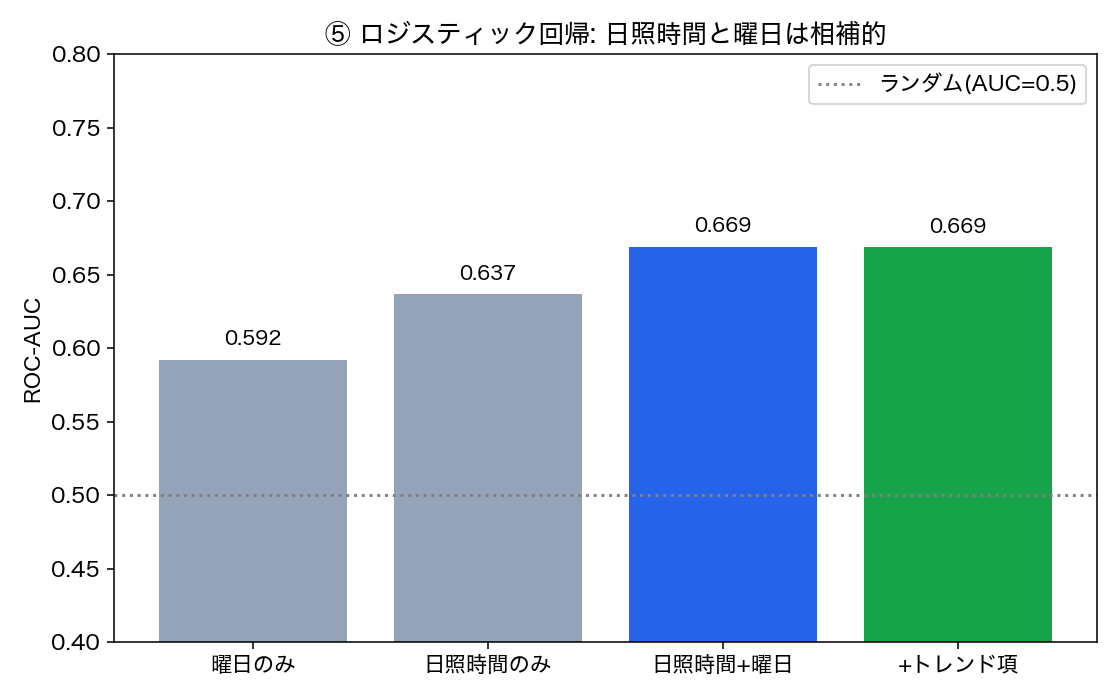
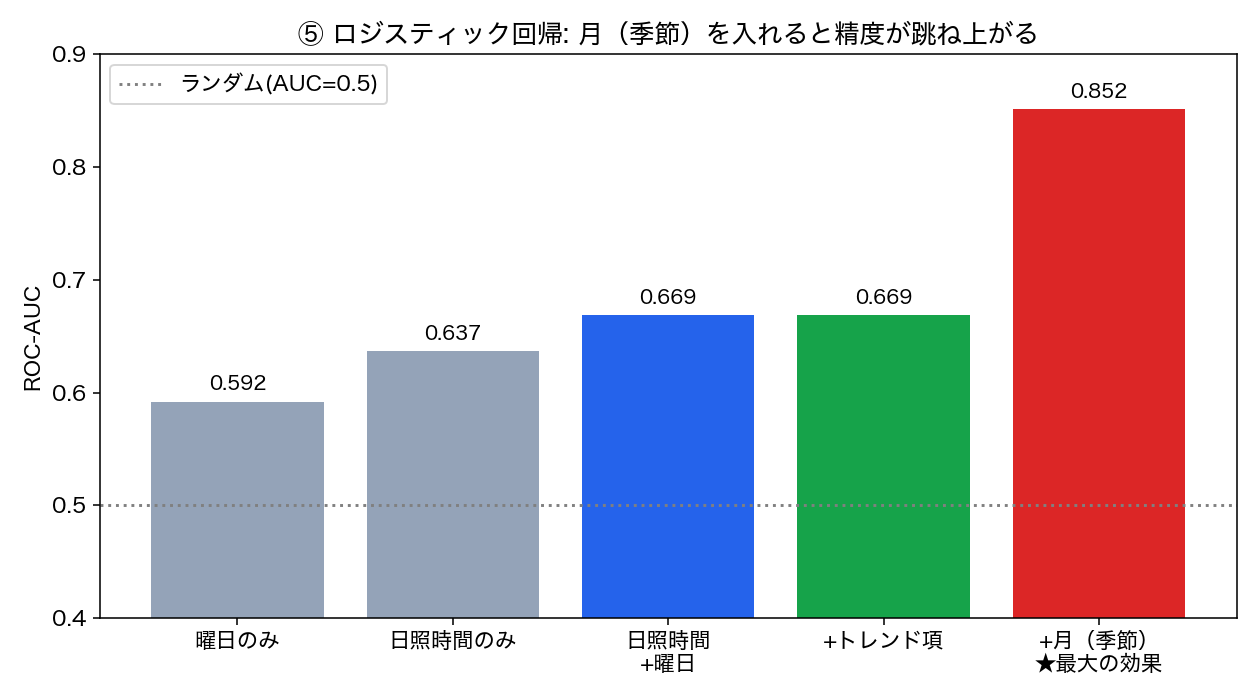
ID-01: 季節(月)を特徴量に加えるとAUCが0.669→0.852に大幅改善
fig03・fig05・まとめ表が季節変動の発見(前コミット)を反映していない
との指摘を受け、月ダミー変数をロジスティック回帰に実際に組み込んで
検証。月のみ+トレンドでAUC0.765(日照+曜日の0.669を単独で上回る)、
月+日照+曜日+トレンド(フル)でAUC0.852まで改善し、季節が日照時間・
曜日のどちらよりも強力な予測因子であることを確認。

logistic_model.pyに月ダミーの評価を追加、fig05を再生成、fig03の
文脈に季節混在の注記を追加、REPORT.md・README.md・まとめ表を更新。

diff --git a/experiments/id01_curtailment_compare/src/visualize_summary.py b/experiments/id01_curtailment_compare/src/visualize_summary.py
@@ -148,35 +148,43 @@ def fig04_discriminative_power():
 
 
 def fig05_auc_comparison():
+    from sklearn.linear_model import LogisticRegression
+    from sklearn.metrics import roc_auc_score
+
     df = build_dataset()
+    df["month"] = df["date"].dt.month
+    month_dummies = pd.get_dummies(df["month"], prefix="month", drop_first=True)
+    df = pd.concat([df, month_dummies], axis=1)
+    month_cols = list(month_dummies.columns)
+
+    n_train = int(len(df) * 0.7)
+    train, test = df.iloc[:n_train], df.iloc[n_train:]
+
     results = []
     for feats, label in [
         (["is_weekend_or_holiday"], "曜日のみ"),
         (["sunshine_h"], "日照時間のみ"),
-        (["sunshine_h", "is_weekend_or_holiday"], "日照時間+曜日"),
+        (["sunshine_h", "is_weekend_or_holiday"], "日照時間\n+曜日"),
         (["sunshine_h", "is_weekend_or_holiday", "years_since_start"], "+トレンド項"),
+        (month_cols + ["sunshine_h", "is_weekend_or_holiday", "years_since_start"], "+月（季節）\n★最大の効果"),
     ]:
-        from sklearn.linear_model import LogisticRegression
-        from sklearn.metrics import roc_auc_score
-        n_train = int(len(df) * 0.7)
-        train, test = df.iloc[:n_train], df.iloc[n_train:]
-        model = LogisticRegression()
+        model = LogisticRegression(max_iter=1000)
         model.fit(train[feats], train["is_curtailed"])
         proba = model.predict_proba(test[feats])[:, 1]
         auc = roc_auc_score(test["is_curtailed"], proba)
         results.append((label, auc))
 
-    fig, ax = plt.subplots(figsize=(8, 5))
+    fig, ax = plt.subplots(figsize=(9, 5))
     labels = [r[0] for r in results]
     aucs = [r[1] for r in results]
-    colors = ["#94a3b8", "#94a3b8", "#2563eb", "#16a34a"]
+    colors = ["#94a3b8", "#94a3b8", "#2563eb", "#16a34a", "#dc2626"]
     bars = ax.bar(labels, aucs, color=colors)
     for b, v in zip(bars, aucs):
         ax.text(b.get_x() + b.get_width() / 2, v + 0.01, f"{v:.3f}", ha="center", fontsize=10)
     ax.axhline(0.5, color="gray", ls=":", lw=1.5, label="ランダム(AUC=0.5)")
     ax.set_ylabel("ROC-AUC")
-    ax.set_ylim(0.4, 0.8)
-    ax.set_title("⑤ ロジスティック回帰: 日照時間と曜日は相補的")
+    ax.set_ylim(0.4, 0.9)
+    ax.set_title("⑤ ロジスティック回帰: 月（季節）を入れると精度が跳ね上がる")
     ax.legend()
     fig.tight_layout()
     fig.savefig(FIG_DIR / "05_auc_comparison.png", dpi=140)

diff --git a/experiments/id01_curtailment_compare/src/logistic_model.py b/experiments/id01_curtailment_compare/src/logistic_model.py
@@ -43,7 +43,7 @@ def evaluate(df: pd.DataFrame, features: list, label: str) -> dict:
     n_train = int(len(df) * TRAIN_RATIO)
     train, test = df.iloc[:n_train], df.iloc[n_train:]
 
-    model = LogisticRegression()
+    model = LogisticRegression(max_iter=1000)
     model.fit(train[features], train["is_curtailed"])
 
     proba = model.predict_proba(test[features])[:, 1]
@@ -67,16 +67,24 @@ def evaluate(df: pd.DataFrame, features: list, label: str) -> dict:
 
 def main():
     df = build_dataset()
+    df["month"] = df["date"].dt.month
+    month_dummies = pd.get_dummies(df["month"], prefix="month", drop_first=True)
+    df = pd.concat([df, month_dummies], axis=1)
+    month_cols = list(month_dummies.columns)
+
     results = []
     results.append(evaluate(df, ["is_weekend_or_holiday"], "曜日（土日祝）のみ"))
     results.append(evaluate(df, ["sunshine_h"], "日照時間のみ"))
     results.append(evaluate(df, ["sunshine_h", "is_weekend_or_holiday"], "日照時間＋曜日（土日祝）"))
     results.append(evaluate(df, ["sunshine_h", "is_weekend_or_holiday", "years_since_start"],
                              "日照時間＋曜日＋トレンド（導入量増加の近似）"))
+    results.append(evaluate(df, month_cols + ["years_since_start"], "月（季節）のみ＋トレンド"))
+    results.append(evaluate(df, month_cols + ["sunshine_h", "is_weekend_or_holiday", "years_since_start"],
+                             "月＋日照＋曜日＋トレンド（フル）"))
 
     print("=== まとめ ===")
     for r in results:
-        print(f"  {r['label']:24s} AUC={r['auc']:.3f}  適合率={r['precision']:.3f}  再現率={r['recall']:.3f}")
+        print(f"  {r['label']:28s} AUC={r['auc']:.3f}  適合率={r['precision']:.3f}  再現率={r['recall']:.3f}")
 
 
 if __name__ == "__main__":

diff --git a/experiments/id01_curtailment_compare/REPORT.md b/experiments/id01_curtailment_compare/REPORT.md
@@ -25,9 +25,9 @@ GenAIによる平文説明、という一連のパイプラインを構築。途
 
 曜日で見ても、土日（特に日曜）に出力制御が集中する傾向が九州・沖縄の両方で確認できた
 （カレンダー上の均等割合14.3%を大きく超える）。これは「休日＝需要が少ない→太陽光が供給過多になりやすい」
-という仮説と整合する。
-
-**ただし、この「土日に多い」傾向は季節によって大きく異なる**（ユーザーからの指摘で追加検証）:
+という仮説と整合する。**ただしこの図は年間を通じた集計であり、実際には季節で全く異なる2つの
+パターンが混ざっている**（次の段落で詳述。後述のロジスティック回帰でも月を入れるとAUCが
+大きく改善することから、この図だけでは季節の効果を捉えきれていないことが裏付けられる）。
 
 ![季節×曜日効果](results/figs/10_seasonal_weekday.png)
 
@@ -78,6 +78,24 @@ AUC 0.669は「弱〜中程度の判別力」にとどまる。
 この分布シフトのせいでトレンド項（経過年数）を入れないと再現率が0.339まで落ちる
 （=制御日の3件に1件しか当てられない）。トレンド項を1つ加えるだけで再現率が0.882まで改善する
 （AUCは不変、確率の見積もりが補正された）。
+
+**さらに重要な追加発見**: 上記セクション1で見た「季節による大きな違い」を特徴量に加えると、
+AUCが0.669→**0.852**まで跳ね上がった（グラフの赤バー）。月を単独でトレンド項に加えただけでも
+AUC 0.765に達し、これは「日照時間+曜日」の組み合わせ（0.669）を単独で上回る。**季節（月）は
+日照時間・曜日のどちらよりも強力な予測因子だった**。分解すると:
+
+| 特徴量の組み合わせ | AUC | 適合率 | 再現率 |
+|---|---|---|---|
+| 日照時間+曜日+トレンド（月無し） | 0.669 | 0.674 | 0.882 |
+| 月のみ+トレンド | 0.765 | 0.691 | 0.952 |
+| 月+曜日+トレンド | 0.786 | 0.675 | 0.948 |
+| 月+日照+トレンド | 0.829 | 0.659 | 0.950 |
+| **月+日照+曜日+トレンド（フル）** | **0.852** | 0.690 | 0.963 |
+
+月を入れた上でも日照時間・曜日はそれぞれ追加の情報を持つ（フルモデルが最良）が、**単体の影響力は
+月が圧倒的**。これは当然の結果でもある：セクション1で見たように、曜日効果自体が季節によって
+正反対の振る舞いをするため、季節を知らずに曜日・日照時間だけで予測しようとすると情報が大きく
+失われていた。
 
 ## 4. 「AMGSDSの方が正確」と判断したが、誤りだった（重要な訂正）
 
@@ -173,7 +191,7 @@ Claudeが生成したレポート（$0.0045/回）:
 
 | 問い | 結果 |
 |---|---|
-| 出力制御は天気・曜日で説明できるか | 部分的に可能（AUC 0.669、中程度） |
+| 出力制御は天気・曜日で説明できるか | 天気・曜日だけでは中程度（AUC 0.669）。**月（季節）を加えるとAUC 0.852まで改善**——季節が最も強力な予測因子 |
 | 日照時間か全天日射量か | 日照時間の方が判別力が高い（意外） |
 | AMGSDSの数値予報は簡略化より優れているか | **No**（快晴日の過少評価バイアスがあるため） |
 | GenAIで平文説明は作れるか | できた（$0.004〜0.005/回、バイアスの注意点も含めて説明） |

diff --git a/experiments/id01_curtailment_compare/README.md b/experiments/id01_curtailment_compare/README.md
@@ -85,6 +85,8 @@ cd experiments/id01_curtailment_compare
 - **評価期間（2023年末〜2026年3月）は制御日の割合が59%と、学習期間（36%）より大幅に高い**（太陽光の導入量が年々増えているため）。この分布シフトのせいで、トレンド項（経過年数）を入れないとモデルが確率を低く見積もりすぎ、しきい値0.5では再現率0.339（制御日の3件に1件しか当てられない）に留まる。**トレンド項を1つ加えるだけで再現率が0.882まで改善**（AUCは変わらない＝順位付けの能力は同じだが、確率の見積もりが現在の導入量に合わせて補正された）。
 - 実務的な含意: 「晴れ×休日」だけで出力制御を説明しようとすると、太陽光の導入量が増え続けている効果を見落として過小評価しやすい。本気で予測するなら設備容量（導入量）の実績か、せめて経過年数のようなトレンド項が必須。
 
+**追記（季節変動の発見を受けて）**: 「追加検証5」で判明した季節変動を特徴量（月のダミー変数）としてモデルに加えると、**AUCが0.669→0.852まで大幅に改善した**。月を単独でトレンド項に加えるだけでAUC 0.765に達し、これは「日照時間＋曜日」（0.669）を単独で上回る。**季節（月）は日照時間・曜日のどちらよりも強力な予測因子だった**（曜日効果自体が季節によって正反対に振る舞うため、季節を知らずに曜日・日照時間だけで予測すると情報が大きく失われる）。詳細は [REPORT.md](REPORT.md#3-ロジスティック回帰-日照時間と曜日は相補的だが単独では力不足)。
+
 ## 追加検証: GenAI角（天気予報からの平文説明、ID-01のGenAI角そのもの）
 
 [src/forecast_narrative.py](src/forecast_narrative.py)で、翌日の日照時間予報→ロジスティック回帰→Claudeによる平文説明、という一連のパイプラインを実装・実行した。当初は気象庁の天気カテゴリ（晴れ/曇り）を実測分布の分位点で代用する簡略化だったが、**農研機構メッシュ農業気象データ（AMGSDS）の数値予報と比較したところ大きくズレていた**ため、AMGSDSを優先するよう修正した（下記「追加検証2」参照）。
